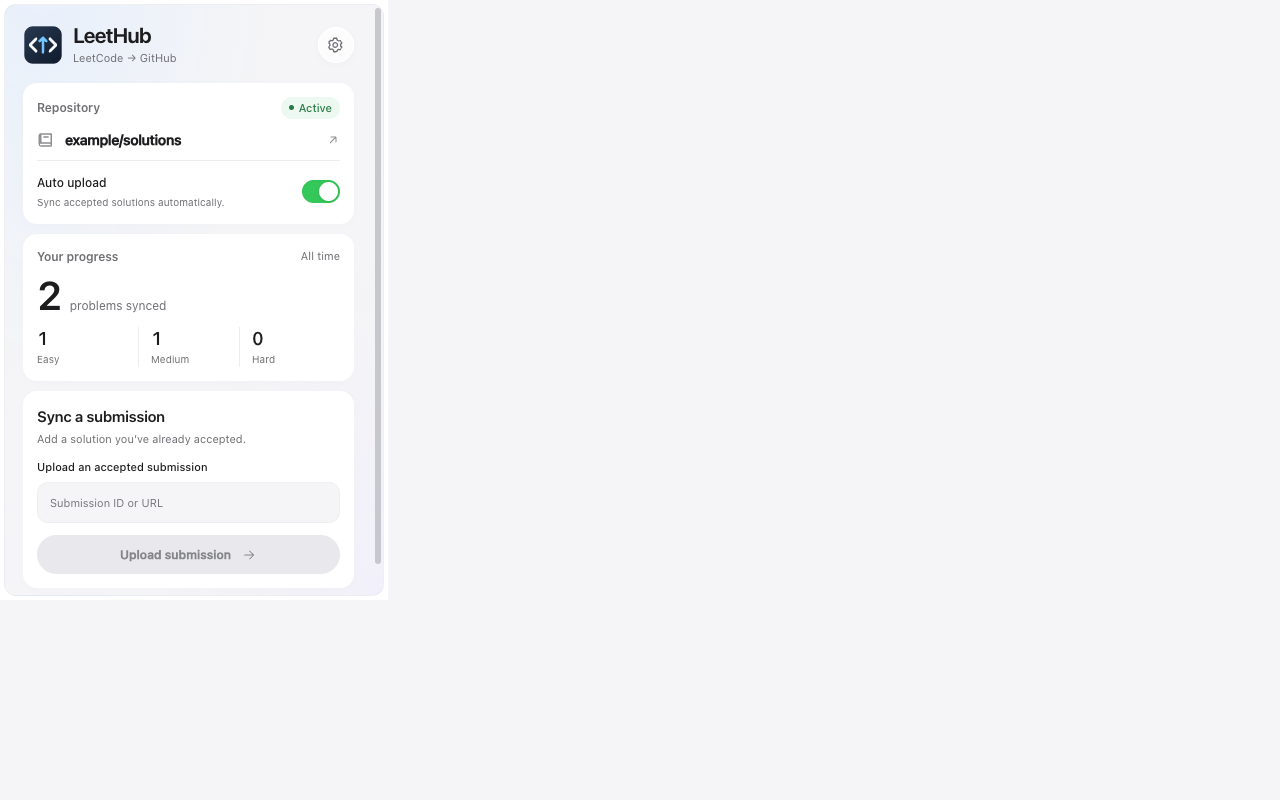
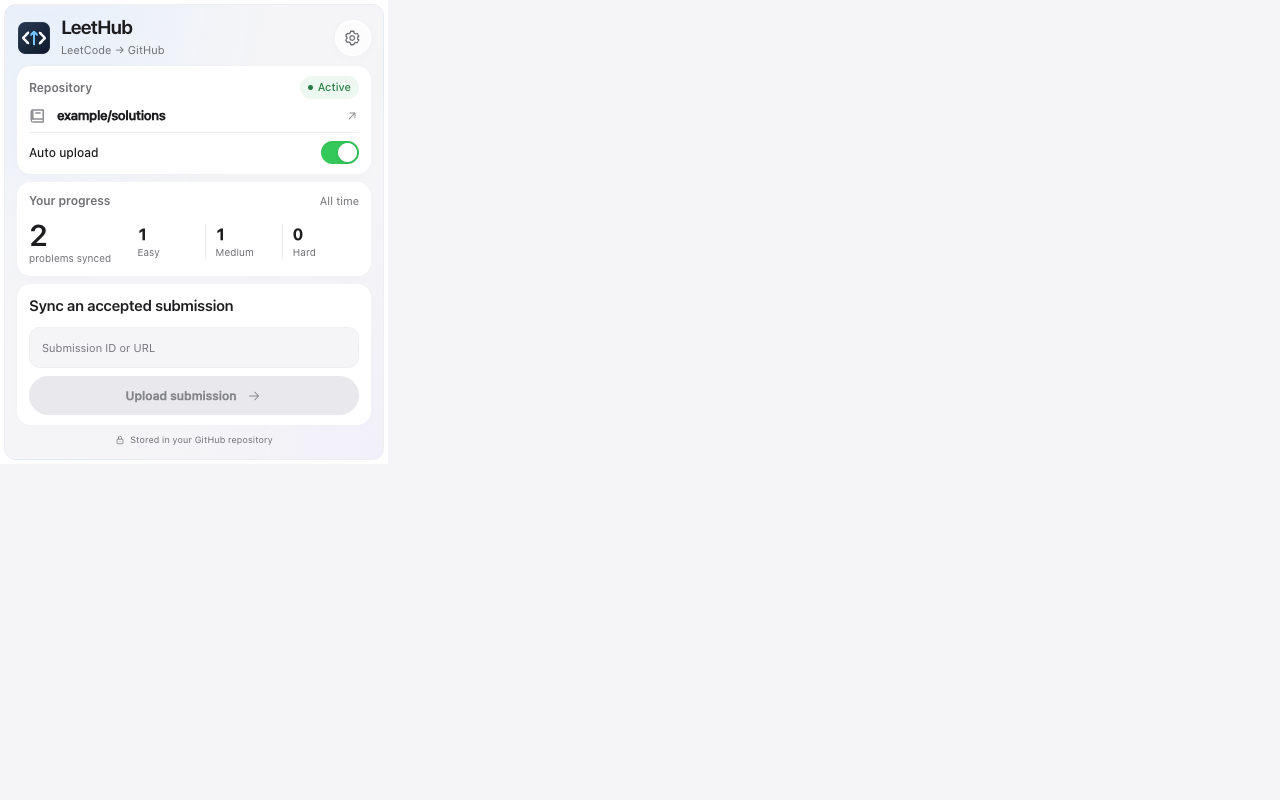
style: fit popup controls and feedback within one screen

diff --git a/src/css/app.css b/src/css/app.css
@@ -17,7 +17,7 @@ button:focus-visible,a:focus-visible,input:focus-visible,select:focus-visible { 
 .brand-row { display: flex; align-items: center; justify-content: space-between; margin-bottom: 16px; }
 .icon-button { width: 36px; height: 36px; display: grid; place-items: center; border-radius: 50%; color: #6e6e73; background: #ffffffa6; border: 1px solid #fff; box-shadow: 0 2px 8px #00000006,inset 0 1px 0 #fff; backdrop-filter: blur(16px); }.icon-button:hover { color: var(--ink); background: #fff; text-decoration: none; }.icon-button .icon { width: 18px; height: 18px; }
 .popup-window { width: 388px; padding: 4px; background: #fff; }
-.popup { width: 100%; padding: 18px 18px 12px; max-height: 592px; overflow-y: auto; border: 1px solid #00000006; border-radius: 12px; scrollbar-width: thin; scrollbar-color: #c7c7ce transparent; background: radial-gradient(ellipse at 10% -10%,#daeaff88,transparent 48%),radial-gradient(ellipse at 100% 100%,#ece5ff55,transparent 40%),#f5f5f7; }
+.popup { width: 100%; padding: 12px; max-height: 592px; overflow-y: auto; border: 1px solid #00000006; border-radius: 12px; scrollbar-width: thin; scrollbar-color: #c7c7ce transparent; background: radial-gradient(ellipse at 10% -10%,#daeaff88,transparent 48%),radial-gradient(ellipse at 100% 100%,#ece5ff55,transparent 40%),#f5f5f7; }
 .popup::-webkit-scrollbar { width: 6px; }
 .popup::-webkit-scrollbar-track { background: transparent; margin-block: 12px; }
 .popup::-webkit-scrollbar-thumb { border-radius: 6px; background: #c7c7ce; }
@@ -40,6 +40,27 @@ input:not([type=checkbox]),select { display: block; width: 100%; min-height: 40p
 .popup-footer { display: flex; align-items: center; justify-content: center; gap: 5px; margin-top: 10px; font-size: 9px; color: var(--muted); }.popup-footer .icon { width: 10px; height: 10px; }
 .empty-state { text-align: center; padding: 20px 6px 26px; }.empty-state h2 { font-size: 28px; line-height: 1.2; letter-spacing: -1px; font-weight: 600; margin: 14px 0; }.empty-state p { color: var(--muted); font-size: 12px; line-height: 1.8; }.empty-state .button-link { display: flex; margin: 24px 0 12px; }.empty-state > .small-muted { display: block; }
 .code-art { width: 98px; height: 102px; padding: 17px; margin: 0 auto 24px; border-radius: 23px; color: var(--tint); background: linear-gradient(145deg,#ffffffd9,#edf4ffb3); border: 1px solid #fff; box-shadow: 0 8px 24px #17477812,inset 0 1px 0 #fff; }.code-art .icon { width: 32px; height: 32px; }.art-line { width: 100%; height: 4px; border-radius: 5px; background: #bfcfe3; margin-top: 8px; }.art-line.short { width: 60%; }
+/* Keep the connected popup within Chrome's height limit without shrinking controls. */
+.popup .brand-row { margin-bottom: 8px; }
+.popup .brand-mark { width: 34px; height: 34px; }
+.popup .brand h1 { font-size: 19px; }
+.popup .repository-card,.popup .progress-card,.popup .manual-card { padding: 10px 12px; margin-bottom: 8px; }
+.popup .repository-name { margin: 7px 0; font-size: 13px; }
+.popup .repository-name > span { white-space: nowrap; overflow: hidden; text-overflow: ellipsis; }
+.popup .sync-control { padding-top: 8px; }
+.popup .progress-summary { display: flex; align-items: center; gap: 16px; margin-top: 8px; }
+.popup .total { flex-direction: column; gap: 0; margin: 0; }
+.popup .total span { font-size: 10px; }
+.popup .difficulty-grid { flex: 1; }
+.popup .total strong { font-size: 30px; }
+.popup .difficulty { flex-direction: column-reverse; gap: 0; padding: 0 10px; }
+.popup .difficulty strong { font-size: 16px; }
+.visually-hidden { position: absolute; width: 1px; height: 1px; padding: 0; margin: -1px; overflow: hidden; clip-path: inset(50%); white-space: nowrap; border: 0; }
+.popup .manual-card input { margin-top: 10px; }
+.popup .manual-card label { margin-top: 8px; margin-bottom: 5px; }
+.popup .full-width { margin-top: 8px; }
+.popup .feedback.visible,.popup .feedback.error { padding: 8px 10px; margin-top: 6px; }
+.popup .popup-footer { margin-top: 6px; }
 .welcome { max-width: 1020px; display: grid; grid-template-columns: .9fr 1.1fr; margin: 30px auto; background: #fff; border-radius: 30px; overflow: hidden; box-shadow: 0 16px 70px #20305009,0 1px 3px #00000003; }
 .welcome-story { padding: 36px; display: flex; flex-direction: column; background: radial-gradient(ellipse at 10% 10%,#dce9ff85,transparent 60%),radial-gradient(ellipse at 90% 100%,#e9def780,transparent 65%),#f5f5f7; }.welcome-story .brand strong { font-size: 23px; font-weight: 600; letter-spacing: -.8px; }.story-content { margin: auto 0; padding: 60px 0; }.story-content .eyebrow { font-size: 12px; color: #5b6575; }.story-content h1 { font-size: 48px; font-weight: 600; line-height: 1.09; letter-spacing: -2.1px; margin: 17px 0 20px; }.story-content p { color: #626977; font-size: 14px; line-height: 1.8; max-width: 310px; }.story-footnote { color: var(--muted); font-size: 10px; }
 .flow-preview { display: flex; align-items: center; gap: 17px; margin-top: 38px; }.flow-source,.flow-destination { width: 108px; height: 107px; display: flex; flex-direction: column; justify-content: center; align-items: center; gap: 12px; color: #49556b; font-size: 10px; border-radius: 24px; background: #ffffffb0; border: 1px solid #fff; box-shadow: inset 0 1px 0 #fff,0 6px 18px #5060800a; }.flow-preview .icon:not(.flow-arrow) { width: 29px; height: 29px; color: #427fbf; }.flow-arrow { color: #8794a6; width: 18px; height: 18px; }.flow-destination { background: #ffffff78; backdrop-filter: blur(15px); }

diff --git a/src/components/Popup.tsx b/src/components/Popup.tsx
@@ -38,8 +38,8 @@ const Popup: React.FC = () => {
     {data.leethub_hook ? <>
       <section className='repository-card'>
         <div className='section-top'><span className='eyebrow'>Repository</span><span className={`status-badge ${enabled ? 'active' : ''}`}><span className='status-dot' />{enabled ? 'Active' : 'Paused'}</span></div>
-        <a className='repository-name' href={`https://github.com/${data.leethub_hook}`} target='_blank' rel='noopener noreferrer'><Icon name='repository' /><span>{data.leethub_hook}</span><Icon name='arrow' className='repository-arrow' /></a>
-        <div className='sync-control'><div><strong>Auto upload</strong><p>Sync accepted solutions automatically.</p></div>
+        <a className='repository-name' href={`https://github.com/${data.leethub_hook}`} target='_blank' rel='noopener noreferrer'><Icon name='repository' /><span title={data.leethub_hook}>{data.leethub_hook}</span><Icon name='arrow' className='repository-arrow' /></a>
+        <div className='sync-control'><div><strong>Auto upload</strong></div>
           <label className='switch'><input type='checkbox' aria-label='Enable auto upload' checked={enabled} onChange={async event => {
             try { await browser.storage.local.set({ bjhEnable: event.target.checked }) }
             catch { setMessage('Could not save auto-upload setting.') }
@@ -48,12 +48,12 @@ const Popup: React.FC = () => {
       </section>
       <section className='progress-card'>
         <div className='section-top'><span className='eyebrow'>Your progress</span><span className='small-muted'>All time</span></div>
-        <div className='total'><strong>{problems.length}</strong><span>problems synced</span></div>
-        <div className='difficulty-grid'>{['Easy', 'Medium', 'Hard'].map(level => <div className={`difficulty ${level.toLowerCase()}`} key={level}><span>{level}</span><strong>{problems.filter(problem => problem.difficulty === level).length}</strong></div>)}</div>
+        <div className='progress-summary'><div className='total'><strong>{problems.length}</strong><span>problems synced</span></div>
+        <div className='difficulty-grid'>{['Easy', 'Medium', 'Hard'].map(level => <div className={`difficulty ${level.toLowerCase()}`} key={level}><span>{level}</span><strong>{problems.filter(problem => problem.difficulty === level).length}</strong></div>)}</div></div>
       </section>
       <section className='manual-card'>
-        <h2>Sync a submission</h2><p className='muted'>Add a solution you’ve already accepted.</p>
-        <label htmlFor='submission'>Upload an accepted submission</label>
+        <h2>Sync an accepted submission</h2>
+        <label className='visually-hidden' htmlFor='submission'>Upload an accepted submission</label>
         <input id='submission' placeholder='Submission ID or URL' value={submission} onChange={event => setSubmission(event.target.value)} />
         <button className='primary full-width' disabled={busy || !enabled || !submission.trim()} onClick={upload}>{busy ? 'Uploading…' : 'Upload submission'}<Icon name='arrow' /></button>
         {!enabled && <p className='field-hint'>Turn on auto upload to upload a submission.</p>}

diff --git a/store/UI-UPDATE.md b/store/UI-UPDATE.md
@@ -19,3 +19,9 @@ The corner radius was subsequently reduced to 12px, card corners to 14px, and th
 ## Shared icon update
 
 The toolbar, popup, and setup header now share an independent vector mark: white code brackets and a sky-blue upload arrow on a dark navy rounded tile. Raster icons at 16, 32, 48, and 128px are generated from `public/assets/leethub-mark.svg`; store screenshot generation uses the same source. The page favicon uses the current icon as well.
+
+## Popup layout without routine scrolling
+
+The connected popup uses a compact header, a single row for total and difficulty counts, shorter card spacing, and a concise accepted-submission form. The input retains its accessible label. Long repository names use an ellipsis with the full name available on hover. Existing controls and feedback remain available.
+
+Isolated Chrome layout checks confirmed no horizontal or vertical overflow and a visible footer for unconnected (524px), connected (464px), paused with latest solution and an error (556px), paused with both error and upload feedback (594px), and long repository name (571px) states. Unusually long external error messages can still use the scroll fallback rather than being clipped.
